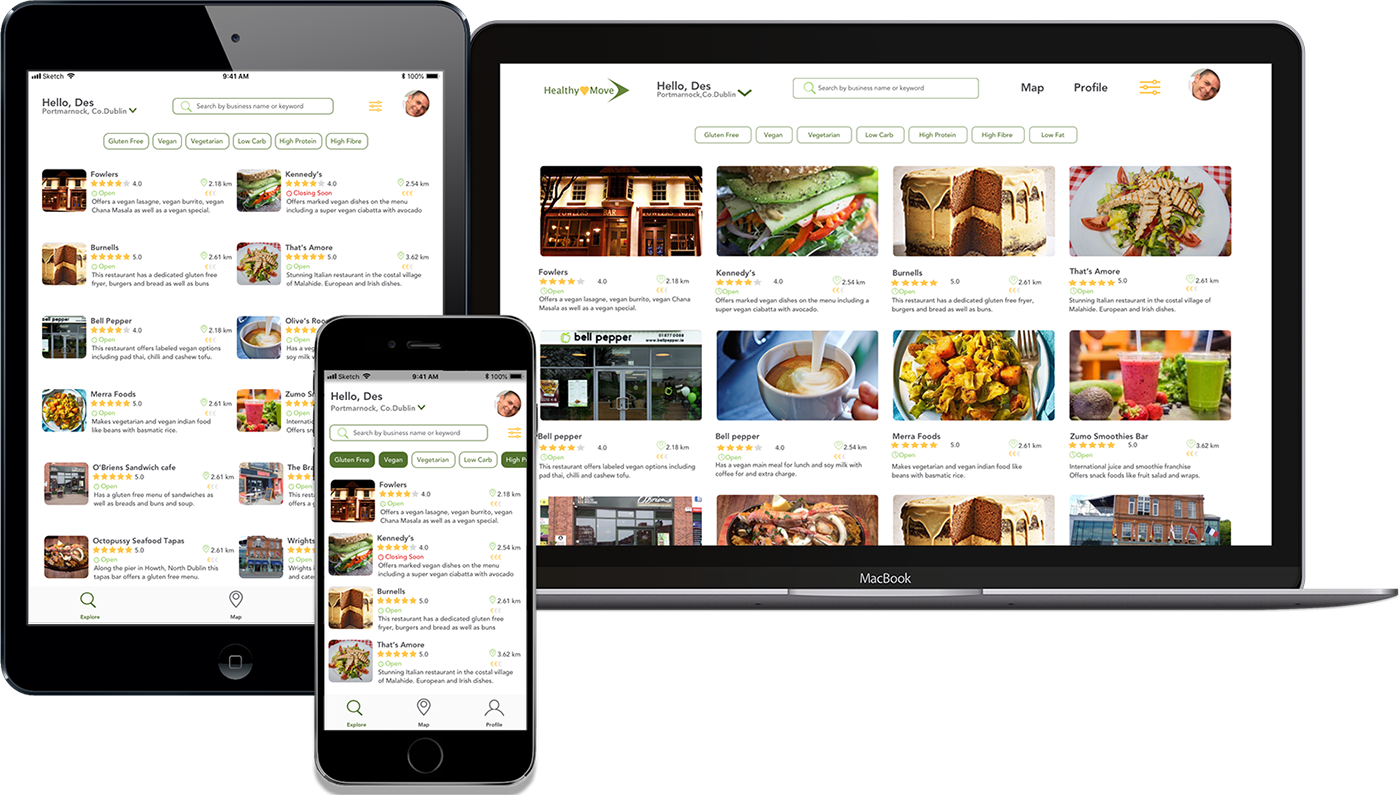
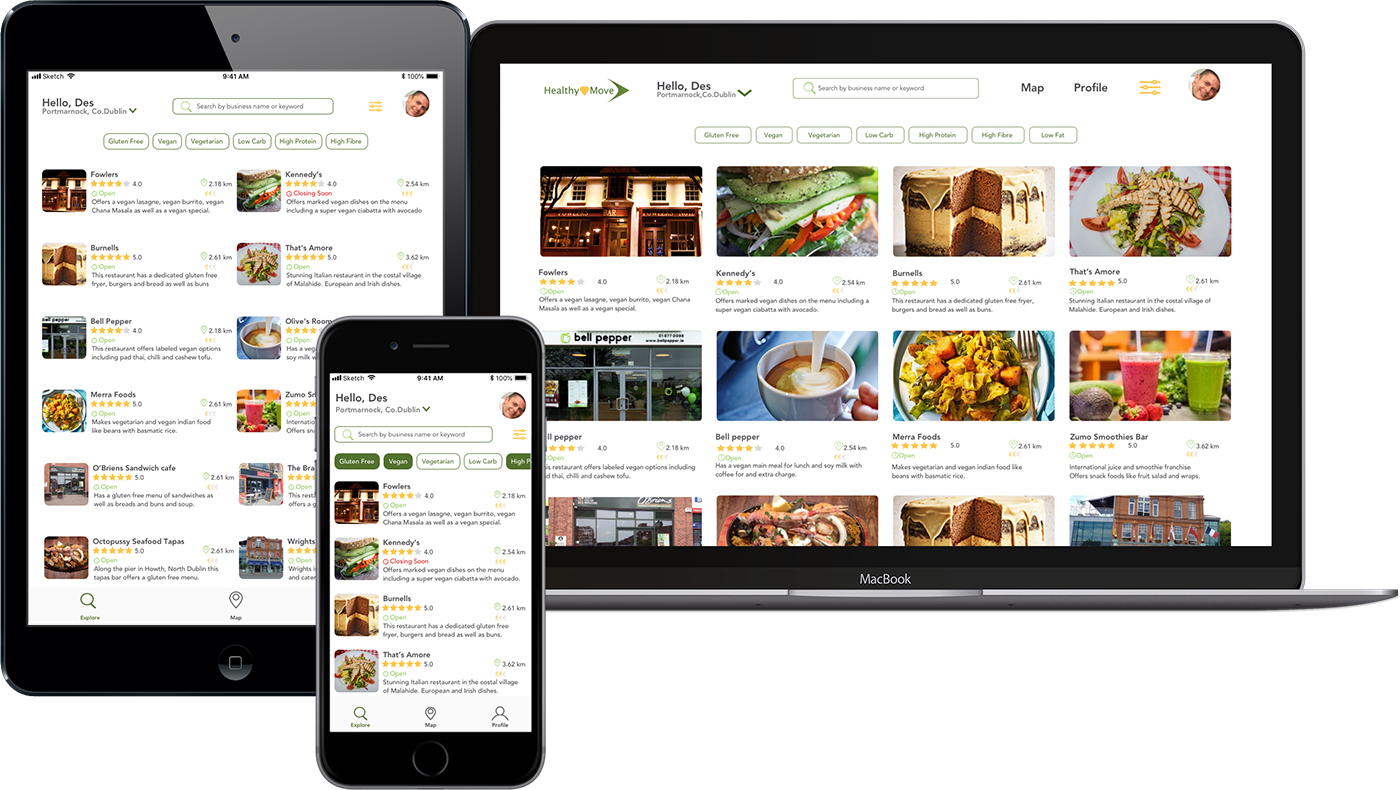
updating handsets for iphone

diff --git a/portfolio/healthymove.html b/portfolio/healthymove.html
@@ -125,26 +125,15 @@
 	      
 	      </div>
 	        <div class="col-xs-6 col-sm-3 col-md-3">
-	     <img src="../assets/images/Landing_Screen.png" style="background-color:#FFF;" class="img-responsive" alt="Explore">
+	     <img src="../assets/images/landing_screen_new.png" style="background-color:#FFF;" class="img-responsive" alt="Explore">
 	      </div>
 	      
 	    
 	        <div class="col-xs-6 col-sm-3 col-md-3">
-	     <img src="../assets/images/Explore.png" style="background-color:#FFF;" class="img-responsive" alt="Explore">
+	     <img src="../assets/images/explore_handset_new.png" style="background-color:#FFF;" class="img-responsive" alt="Explore">
 	      </div>
 	      
-	      <!--
-	       </div>
-	        <div class="col-xs-6 col-sm-3 col-md-3">
-	     <img src="../assets/images/Explore.png" style="background-color:#FFF;" class="img-responsive" alt="Explore">
-	      </div>
-	      	
-	       <div class="col-xs-6 col-sm-3 col-md-3 image-padding">
-	      <img src="../assets/images/Filter.png" style="background-color:#FFF;" class="img-responsive" alt="Filter">
-	      </div>
-       
-        -->
-        
+	    
     </div>
        
        
@@ -631,8 +620,9 @@ to find gluten free food when compared to other restaurant search apps.
 	      <P class="portfolio-detail-body table-padding">As the application will be available to install on tablet and to view online, I have created the iPad
 	      and desktop versions and have defined the breakpoints to show the responsive design and to optimize the application to view on each device.</P>
 	      
+	      <div class="table-top-padding">
 	       <img src="../assets/images/All_Devices_web.png" style="background-color:#FFF;" class="img-responsive" alt="responsive_design">
- 
+ </div>
 						 <h1 class="number-header-padding">
                         <b><a class=" nounderline" target="_blank" href="https://invis.io/6MVPOSX32N8#/402345814_Splash_Logo">View InVision Prototype Here</a></b>
                         </h1>

diff --git a/portfolio/oneday.html b/portfolio/oneday.html
@@ -137,10 +137,10 @@ methods and techniques.
 	       
 	       
 	        <div class="col-xs-6 col-sm-3 col-md-3">
-	     <img src="../assets/images/Stretching_Handset.png" style="background-color:#FFF;" class="img-responsive" alt="Stretching_Image">
+	     <img src="../assets/images/stretching_handset_new.png" style="background-color:#FFF;" class="img-responsive" alt="Stretching_Image">
 	      </div>
 	       <div class="col-xs-6 col-sm-3 col-md-3 image-padding">
-	      <img src="../assets/images/Forest_Handset.png" style="background-color:#FFF;" class="img-responsive" alt="Forest_Handset">
+	      <img src="../assets/images/forest_handset_new.png" style="background-color:#FFF;" class="img-responsive" alt="Forest_Handset">
 	      </div>
 	      
         </div><!-- close row -->
@@ -323,7 +323,7 @@ to listen to a sleepcast before I go to bed”
 	         <div class="col-xs-2 col-sm-1 col-md-1">
 	           <h1 class="number-heading">04</h1>
 	           </div>
-	      <div class="col-xs-10">
+	      <div class="col-xs-11">
 	        
 	         <h1 class="brown-hex number-heading">
 	         <b>Usability Testing</b></h1>
